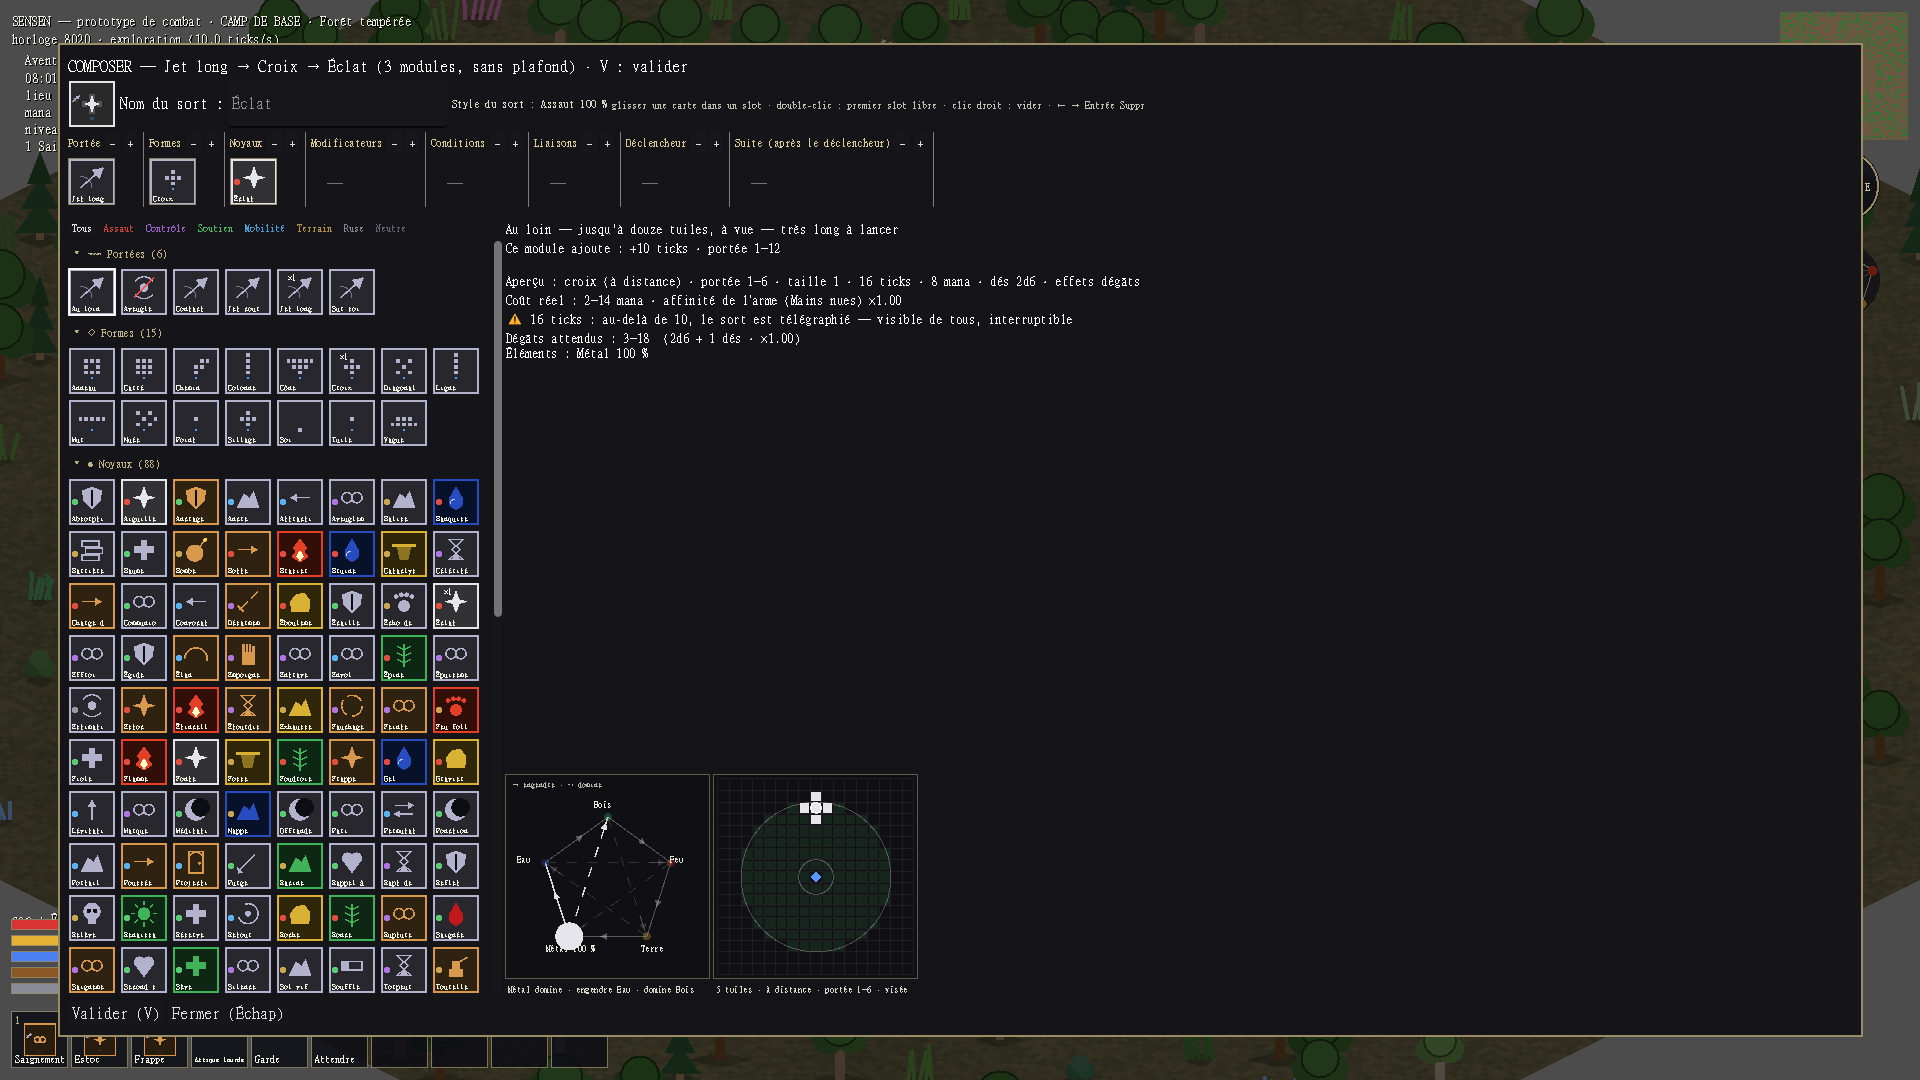
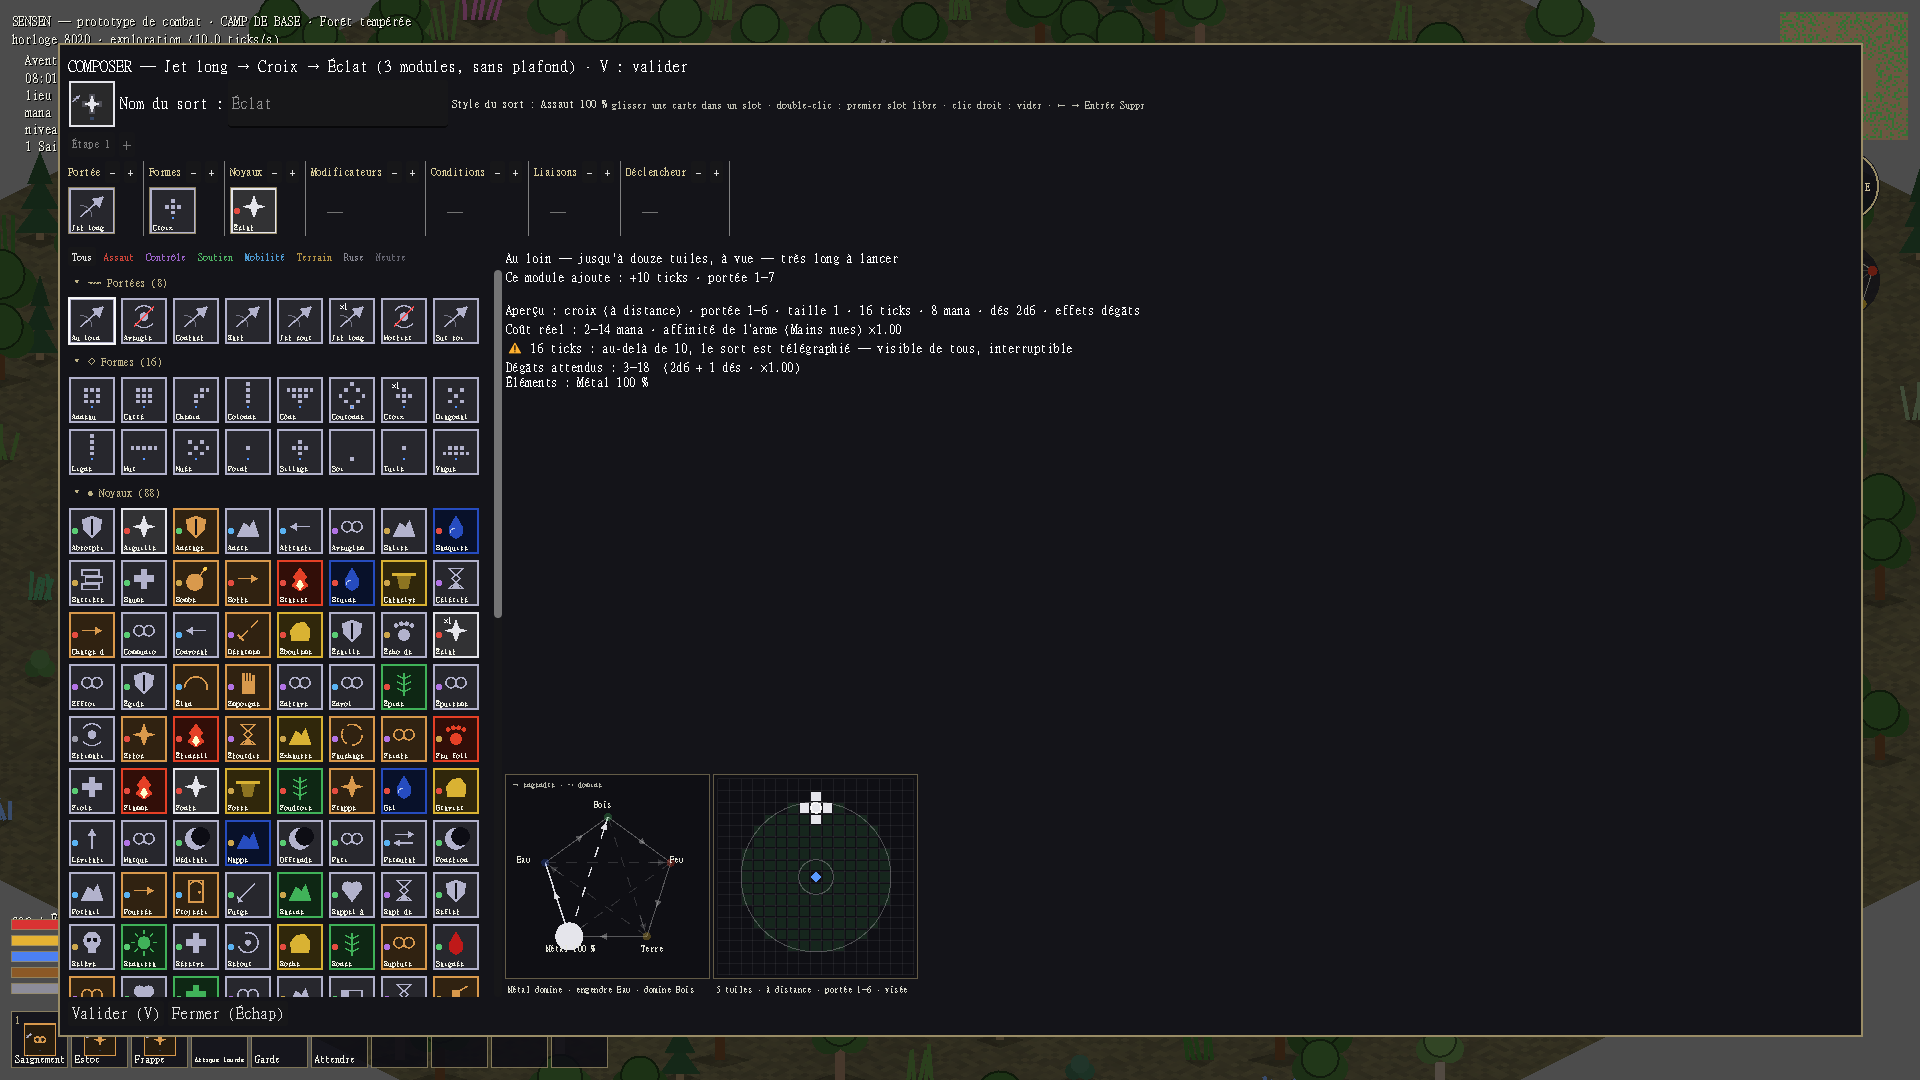
Le composeur n'exprimait que deux etapes ; il en compose autant qu'on veut
Le moteur enchaine N etapes depuis longtemps — un declencheur encapsule
ce qui le suit et l'assemblage se rappelle lui-meme. L'ecran, lui,
groupait ses creneaux PAR TYPE : tout ce qui suivait le premier
declencheur tombait dans une case « Suite », et un second declencheur se
rangeait avec le premier. La troisieme etape etait impossible a ecrire.

Le composeur tient maintenant une liste d'etapes, avec une ligne
d'onglets « Etape 1 · 2 · 3 · + ». Chaque etape a ses creneaux et son
declencheur, qui est ce qui ouvre la suivante. Le groupe Suite dispar
ait : ce n'etait que l'etape 2 sans le dire. Le bouton + exige un
declencheur dans l'etape courante, sans quoi la suite ne partirait pas.

Changed region(s): [[0.0312, 0.1222, 0.5625, 0.9472]]

diff --git a/docs/08 - Technique/Écrans d'interface.md b/docs/08 - Technique/Écrans d'interface.md
@@ -161,6 +161,10 @@ Inventaire+équipement (avec poids), Craft (recettes des stations à portée, [[
 > « dans l'aperçu de sorts, que l'origine du sort soit uniquement dans les cases qui sont définies par la portée ». L'aperçu laissait poser la visée **n'importe où** sur sa grille de 17 × 17 et se contentait d'une croix rouge quand c'était trop loin : on composait en regardant une figure impossible. Les cases atteignables sont maintenant **peintes en vert** (comme la zone de lancer en jeu, même journée) et une case hors de l'anneau de portée est **ignorée** — la visée retombe sur sa position nominale. Ce que montre l'aperçu est donc toujours un tir légal.
 
 
+> [!success] Codé le 2026-09-01 — le composeur sait enfin composer plus de deux étapes
+> Le moteur enchaîne autant d'étapes qu'on veut — un déclencheur encapsule tout ce qui le suit, et l'assemblage se rappelle lui-même (`test_chaine_a_trois_etapes`). L'écran, lui, n'en exprimait que **deux** : ses créneaux étant groupés **par type**, tout ce qui suivait le premier déclencheur tombait dans une seule case « Suite », et un second déclencheur se rangeait avec le premier — la troisième étape était donc impossible à écrire à la souris. Le composeur tient maintenant une **liste d'étapes** : une ligne d'onglets « Étape 1 · 2 · 3 · + » ouvre celle qu'on modifie, chaque étape a ses propres créneaux (portée, forme, noyaux, modificateurs, conditions, liaisons) et son **déclencheur**, qui est précisément ce qui ouvre la suivante. Le groupe « Suite » disparaît : ce n'était que l'étape 2 sans le dire. Ajouter une étape exige un déclencheur dans la précédente — sans lui, rien ne partirait.
+
+
 ## Liens
 - **Dépend de** : [[Direction artistique]], [[Localisation]]
 - **Alimente** : [[Combat tactique sur grille]], [[Craft compositionnel]], [[Habitat des PNJ]], [[Entretien et taxes]]
